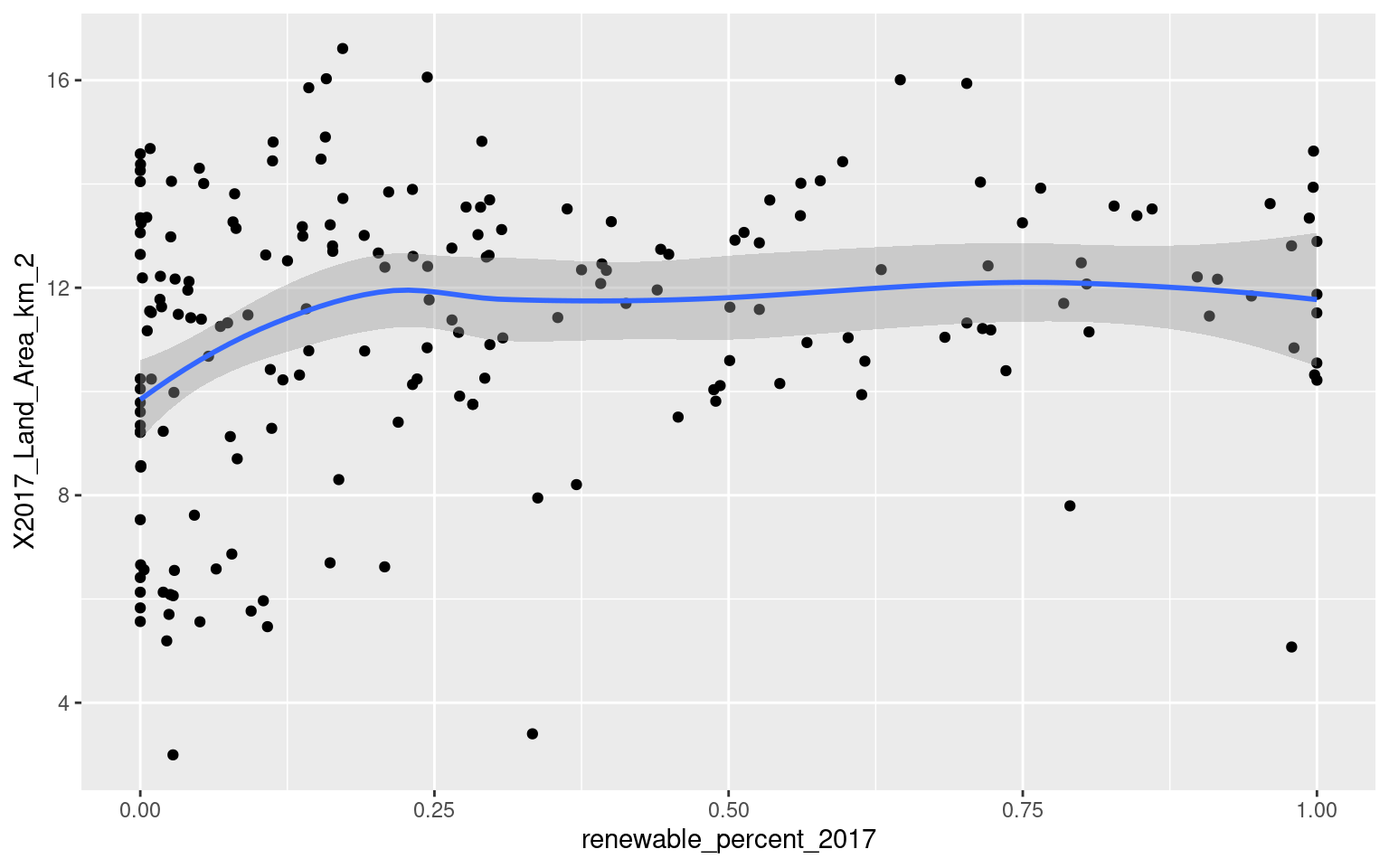
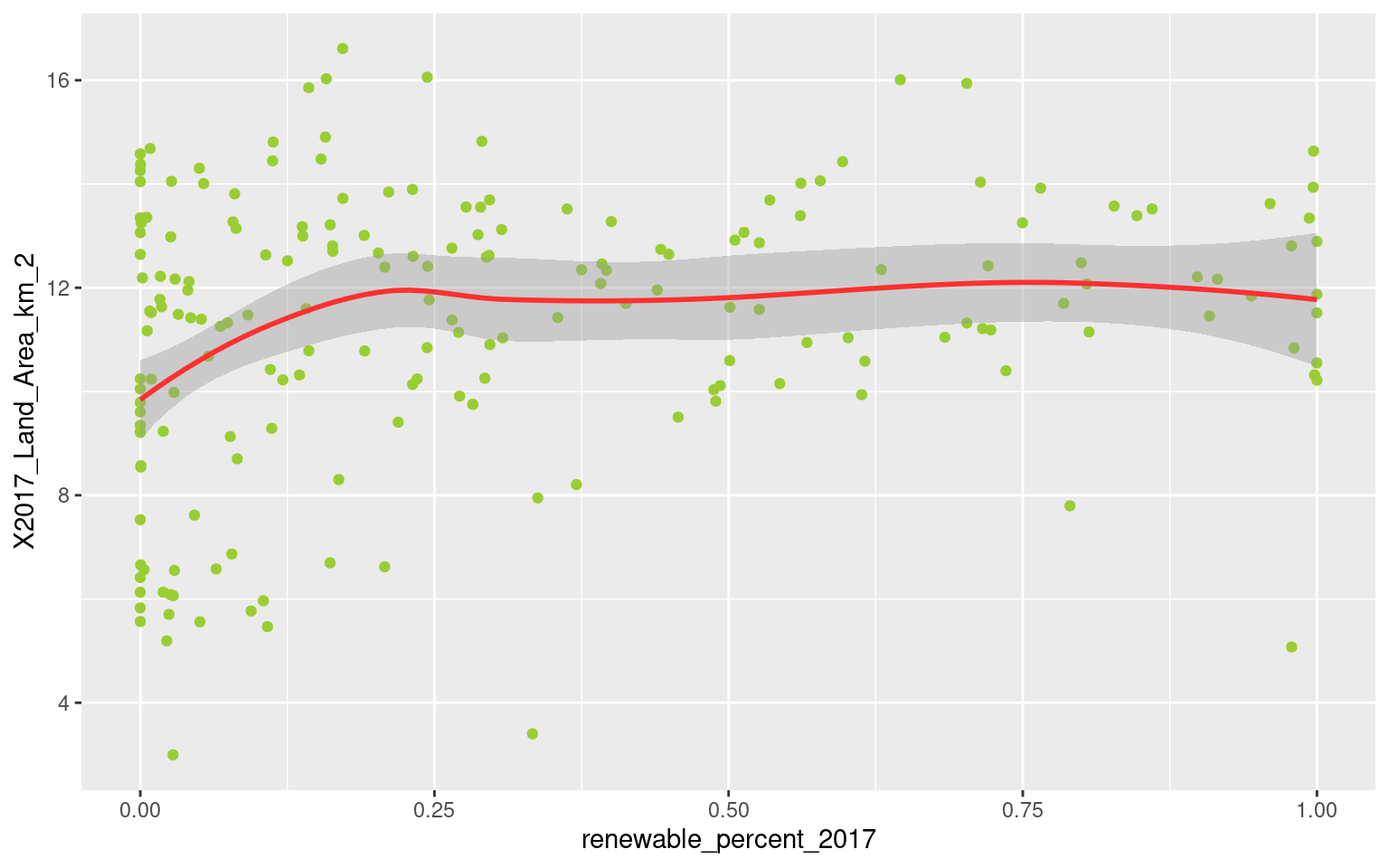
Updated hmtl with Rmd changes

diff --git a/Final_Project_html_Broderick_Weinberg.html b/Final_Project_html_Broderick_Weinberg.html
@@ -190,7 +190,7 @@
 <div id="introduction" class="section level1">
 <h1>Introduction</h1>
 <p>This report has been completed by Hailey Broderick and Callum Weinberg for PSTAT 131/231 in the Winter quarter of 2022 at the University of Santa Barbara. For course credit, the report has been submitted to Gauchospace, along with the structured folder which contains the raw data, additional markdown files (the necessary code is available below unless otherwise stated, but these may show some extra work), a codebook/data dictionary, data crosswalks, intermediate data files, a works cited document (called &quot;works_cited.bib&quot;), and the RMd file that creates this HTML file. If accessing this project via online interface, the materials can be found here: <a href="https://github.com/leoncw/PSTAT231_Final" class="uri">https://github.com/leoncw/PSTAT231_Final</a>. The web hosted version of this HTML document can be found here: <a href="https://leoncw.github.io/PSTAT231_Final/Final_Project_html_Broderick_Weinberg.html" class="uri">https://leoncw.github.io/PSTAT231_Final/Final_Project_html_Broderick_Weinberg.html</a>.</p>
-<p>The primary purpose of this project and the course final assignment was to take a dataset and fit models to predict values of a variable. Specifically, the prediction is perfomed on a known variable (i.e. this is a supervised learning project) and a test data set is used to evaluate the performance of the models. Performing inferential statistics on the models was not the primary purpose of this project, but is discussed at times in the report.</p>
+<p>The primary purpose of this project and the course final assignment was to take a dataset and fit models to predict values of a variable. Specifically, the prediction is performed on a known variable (i.e. this is a supervised learning project) and a test data set is used to evaluate the performance of the models. Performing inferential statistics on the models was not the primary purpose of this project, but is discussed at times in the report.</p>
 <p>The structure of the report is as follows:</p>
 <ul>
 <li>Executive Summary</li>
@@ -264,7 +264,7 @@
 <p>Root Mean Square Error (RMSE), which is a form of quadratic loss, is defined as: <span class="math display">\[RMSE = \sqrt{\frac{\sum_{i = 1}^{n}(\hat{y_i}-y_i)^2}{n}}\]</span></p>
 <p>RMSE is the most commonly used metric in comparing the relative accuracy of predictive models. Mean Absolute Error (MAE), which is a form of absolute loss, is defined as: <span class="math display">\[MAE = \frac{\sum_{i = 1}^{n}|\hat{y_i}-y_i|}{n}\]</span> RMSE and MAE are typically measured on the test data (or validation data), i.e. <span class="math inline">\(y_i \in \{y_{test}\}\)</span>.</p>
 <p>MAE is particularly useful in evaluating the predictions made in this report. Since percentages are bounded by 0 and 1, the MAE is the average percentage miss in either direction for the set of predictions. So if the <span class="math inline">\(MAE = .10\)</span> for a model and a specific test data set, then the predictions on average were .1% away from the true percentages.</p>
-<p>Additionally, MAE implies a threshold for useful models for a response bounded by 0 and 1. If no distributional information is assumed about the response (i.e. set an uninformed prior distribution for the response, which would be the uniform distribution) then the MAE of a completely naive predictor would be roughly .33. In other words, (conditional on nothing being known about renewable energy percentage) if we randomly generated values between 0 and 1 from a uniform distribution, we would expect the MAE for a large sample size to be about .33. An empircal example of this is shown in the code above.</p>
+<p>Additionally, MAE implies a threshold for useful models for a response bounded by 0 and 1. If no distributional information is assumed about the response (i.e. set an uninformed prior distribution for the response, which would be the uniform distribution) then the MAE of a completely naive predictor would be roughly .33. In other words, (conditional on nothing being known about renewable energy percentage) if we randomly generated values between 0 and 1 from a uniform distribution, we would expect the MAE for a large sample size to be about .33. An empirical example of this is shown in the code above.</p>
 <pre class="r"><code># Define two samples from Uniform distribution
 set.seed(42)
 sample_1 = runif(100000,0,1)
@@ -275,7 +275,7 @@ mean(abs(sample_1-sample_2))</code></pre>
 <pre><code>## [1] 0.3352109</code></pre>
 <pre class="r"><code>remove(sample_1,sample_2)</code></pre>
 <p>This sets a limit on what a useful model can be. If a model has an MAE of .4 for example, then we could do better by just guessing. Alternatively, any model with MAE substantially below .33 implies the model is more useful than random guessing.</p>
-<p>Finally, the Bias of the model is considerd. Bias is defined as:</p>
+<p>Finally, the Bias of the model is considered. Bias is defined as:</p>
 <p><span class="math display">\[Bias = \frac{\sum_{i = 1}^{n}\hat{y_i}-y_i}{n}\]</span> Unlike MAE and RMSE, bias is measured using the training data, i.e. <span class="math inline">\(y_i \in \{y_{train}\}\)</span>. Effectively, it measures how close the predicted values are on average to the values used to fit them. By effectively having a large number of predictors (e.g. <span class="math inline">\(n\)</span> fitting polynomial terms in a Generalized Additive Model), it is often possible to get the bias close to 0. This generally indicates the model is overfitted, and will perform poorly on test data. Low bias usually comes at the cost of high variance in the prediction. Bias is measured in this report to provide warning of overfitting. It may not be directly comparable between models, as some models tend to have lower bias but still may perform better.</p>
 </div>
 </div>
@@ -1075,7 +1075,7 @@ full_data_clean$renewable_percent_2017 =
 # There are 19 Such observations
 full_data_clean = full_data_clean %&gt;%
   filter(is.na(renewable_percent_2017) == FALSE)</code></pre>
-<p>Some of the variables and countries are missing a lot of values: more than is reasonable to interpolate. The selected threshold is if the country is missing more than 50 values. This was chosen after reviewing the dataset, and weighs the importance of retaining data (and not biasing the model too much by removing countries) with the practical consideration that fitting a model for an observation that is over mostly interpolated for its predictors is not particularly useful or intersting and makes modeling more dificult.</p>
+<p>Some of the variables and countries are missing a lot of values: more than is reasonable to interpolate. The selected threshold is if the country is missing more than 50 values. This was chosen after reviewing the dataset, and weighs the importance of retaining data (and not biasing the model too much by removing countries) with the practical consideration that fitting a model for an observation that is over mostly interpolated for its predictors is not particularly useful or interesting and makes modeling more difficult.</p>
 <pre class="r"><code>## Get a count of the number of missings, and remove Countries 
 # that have 50 or more missing values. See write up for list of
 # countries
@@ -1236,80 +1236,84 @@ ggplot(distr_df, aes(x = y_i, fill = variable)) +
 <div id="response-variable-distribution" class="section level4">
 <h4>Response Variable Distribution</h4>
 <p>We first plot a histogram of our response variable of interest, renewable energy percentage, in order to examine its distribution.</p>
-<pre class="r"><code># Histogram of renewable electricity production percentage to check distribution
+<pre class="r fold-hide"><code># Histogram of renewable electricity production percentage to check distribution
 ggplot(data=model_data, aes(x=renewable_percent_2017, y=..density..)) +
-       geom_histogram(bins=10, color=&quot;white&quot;)</code></pre>
+       geom_histogram(bins=10, color=&quot;white&quot;) +
+       geom_density(alpha=.5, fill=&quot;lightskyblue2&quot;) </code></pre>
 <p><img src="Final_Project_html_Broderick_Weinberg_files/figure-html/EDA_1-1.png" width="768" /> Based on the histogram of our response variable, renewable_percent_2017, we see that its probability distribution is heavily skewed right. Since the data is skewed, the best measure of the center of renewable_percent_2017 is the median. The right skew of the distribution means that it is more common for countries to have a lower renewable energy percentage (less than 50%). It is interesting to note that this probability seems to steadily decrease, increasing slightly at the tail end for 100% renewable energy production percentage.</p>
 </div>
 <div id="country-population-land-area-and-gdp-scatterplots" class="section level4">
 <h4>Country Population, Land Area, and GDP Scatterplots</h4>
-<p>Logically, the three variables which seem to most obviously differentiate countries are: Country Population (X2017_Population_World_Bank), Country land area measured in <span class="math inline">\(km^2\)</span> (X2017_Land_Area_km_2), and Country GDP measured in US dollars (X2017_GDP_US_Dollars_World_Bank). We would like to see if there is a direct correlation between these continuous variables and our response variable, renewable_percent_2017, by producing scatter plots with geom_point(). Initial plotting was difficult to make out since these variables are very large, thus we take a log transformation of these variables to properly scale them prior to making scatter plots.</p>
-<p>We use the ggplot2 package in order to create plots. Function geom_point() is used to make scatter plots.</p>
-<pre class="r"><code># transform large variables to scale via log transformation
+<p>Logically, the three variables which seem to most obviously differentiate countries are: Country Population (X2017_Population_World_Bank), Country land area measured in <span class="math inline">\(km^2\)</span> (X2017_Land_Area_km_2), and Country GDP measured in US dollars (X2017_GDP_US_Dollars_World_Bank). We would like to see if there is a direct correlation between these continuous variables and our response variable, renewable_percent_2017, by producing scatter plots with geom_point(). Initial plotting was difficult to make out since these variables are very large, thus we take a log transformation of these variables to properly scale them prior to making scatter plots.We use the ggplot2 package in order to create plots. Function geom_point() is used to make scatter plots.</p>
+<pre class="r fold-hide"><code># transform large variables to scale via log transformation
 transform1 = subset_data %&gt;%
   mutate_at(.vars=c(2:4), .funs=log)
 
 # scatter plot response vs Population
 ggplot(data=transform1, mapping = aes(x=renewable_percent_2017, y=X2017_Population_World_Bank)) +
-  geom_point() +
-  geom_smooth()</code></pre>
-<pre><code>## `geom_smooth()` using method = &#39;loess&#39; and formula &#39;y ~ x&#39;</code></pre>
+  geom_point(color=&quot;deeppink1&quot;) +
+  geom_smooth(color=&quot;firebrick1&quot;)</code></pre>
 <p><img src="Final_Project_html_Broderick_Weinberg_files/figure-html/EDA_2-1.png" width="768" /></p>
-<pre class="r"><code># scatter plot response vs Land Area
+<pre class="r fold-hide"><code># scatter plot response vs Land Area
 ggplot(data=transform1, mapping = aes(x=renewable_percent_2017, y=X2017_Land_Area_km_2)) +
-  geom_point() +
-  geom_smooth()</code></pre>
-<pre><code>## `geom_smooth()` using method = &#39;loess&#39; and formula &#39;y ~ x&#39;</code></pre>
+  geom_point(color=&quot;olivedrab3&quot;) +
+  geom_smooth(color=&quot;firebrick1&quot;)</code></pre>
 <p><img src="Final_Project_html_Broderick_Weinberg_files/figure-html/EDA_2-2.png" width="768" /></p>
-<pre class="r"><code># scatter plot response vs GDP
+<pre class="r fold-hide"><code># scatter plot response vs GDP
 ggplot(data=transform1, mapping = aes(x=renewable_percent_2017, y=X2017_GDP_US_Dollars_World_Bank)) +
-  geom_point() +
-  geom_smooth()</code></pre>
-<pre><code>## `geom_smooth()` using method = &#39;loess&#39; and formula &#39;y ~ x&#39;</code></pre>
-<p><img src="Final_Project_html_Broderick_Weinberg_files/figure-html/EDA_2-3.png" width="768" /> Based on our scatter plots of the three variables vs renewable energy percentage, we conclude that there is no significant correlation between renewable energy production percentage and a country's relative Population, GDP, or Land Area. Thus, we reject the notion that renewable energy percentage can be predicted based solely on these predictors.</p>
+  geom_point(color=&quot;goldenrod2&quot;) +
+  geom_smooth(color=&quot;firebrick1&quot;)</code></pre>
+<p><img src="Final_Project_html_Broderick_Weinberg_files/figure-html/EDA_2-3.png" width="768" /> Based on our scatter plots of the three variables vs renewable energy percentage, we conclude that there is no significant correlation between renewable energy production percentage and a country's relative Population, GDP, or Land Area. Thus, we reject the notion that renewable energy percentage can be predicted based solely on these predictors. It is interesting to note that in each plot, there seems to be a slight positive correlation between renewable energy percentage and the three predictors of interest for countries with low renewable energy percentage (0% to 25%).</p>
 </div>
 <div id="emissions-variables-relationships-ch4-co2-ghg-nox" class="section level4">
 <h4>Emissions Variables Relationships (CH4, CO2, GHG, NOx)</h4>
 <p>Next, we would like to see if there exists any relation between emission output variables CH4, CO2, GHG, and NOx, and other predictors. Emissions signal mass production of energy, both harmful and natural. We hypothesize that such emissions could be related to the variables.</p>
 <p>Upon plotting our data, we discovered that the emissions variables CH4, CO2, GHG, and NOx must be scaled in order to properly see relationships, as the values can be quite large. Thus, we decide to transform the emissions variables via a log transformation prior to making our plots.</p>
 <p>Logically, we assume that a higher amount of emissions for each country would correspond with a larger populations. CH4 is methane, which is used to produce light and heat. Thus, a larger should result in greater CH4 outputs from human activity which produces light and heat. We will test this hypothesis by looking at the correlation between CH4 and Population:</p>
-<pre class="r"><code>transform2 = transform1 %&gt;%
+<pre class="r fold-hide"><code>transform2 = transform1 %&gt;%
   mutate_at(.vars=c(5:8), .funs=log)
-
 # boxplot
 ggplot(data=transform2, mapping = aes(x=X2017_Population_World_Bank, y=CH4)) +
-  geom_boxplot(mapping = aes(group = cut_width(X2017_Population_World_Bank, 3)))</code></pre>
-<p><img src="Final_Project_html_Broderick_Weinberg_files/figure-html/EDA_CH4-1.png" width="768" /> There appears to be a clear positive correlation between population and CH4 emission levels. This provides evidence that our hypothesis may be considered, larger populations result in higher levels of CH4 emisions. Note there do exist outliers for populations with smaller populations than output higher than expected levels of CH4.</p>
+  geom_boxplot(mapping = aes(group = cut_width(X2017_Population_World_Bank, 3)),
+               color=&quot;deeppink1&quot;, fill=&quot;pink1&quot;, alpha=0.4)</code></pre>
+<p><img src="Final_Project_html_Broderick_Weinberg_files/figure-html/EDA_CH4-1.png" width="768" /> There appears to be a clear positive correlation between population and CH4 emission levels. This provides evidence that our hypothesis may be considered, larger populations result in higher levels of CH4 emissions. Note there do exist outliers for populations with smaller populations than output higher than expected levels of CH4.</p>
 <p>Next, we wish to check the relation between CO2 emissions and total energy supply (energy_supply_petajoules). CO2 emissions come from many sources, but human generation of energy (i.e. burning fossil fuels) is a huge source of contribution to CO2 emission levels. We suspect there may be a correlation between energy supply (from all sources, not just renewable) and CO2 emissions.</p>
-<pre class="r"><code>transform2 = transform2 %&gt;%
+<pre class="r fold-hide"><code>transform2 = transform2 %&gt;%
   mutate(energy_supply_petajoules = log(energy_supply_petajoules))
 # boxplot
 ggplot(data=transform2, mapping = aes(x=energy_supply_petajoules, y=CO2)) +
-  geom_boxplot(mapping = aes(group = cut_width(x=energy_supply_petajoules, 3)))</code></pre>
+  geom_boxplot(mapping = aes(group = cut_width(x=energy_supply_petajoules, 3)),
+               color=&quot;royalblue2&quot;, fill=&quot;lightskyblue2&quot;, alpha=0.5)</code></pre>
 <p><img src="Final_Project_html_Broderick_Weinberg_files/figure-html/EDA_CO2-1.png" width="768" /> Based on our boxplot of energy_supply_petajoules vs CO2 emissions, it appears that there is a high correlation between these two variables. It appears that in general, larger supplies of energy correspond with rising levels of CO2 emissions. This is why it is important to increase percentages of renewable energy production, to limit the amount of CO2 generated by energy production.</p>
 <p>Green house gases (GHG) are another emission variables, which we believe may be correlated with land area, since GHG are mainly produced by naturally occurring sources, it is logical to assume that larger land area (X2017_Land_Area_km_2) may mean more GHG emissions.</p>
-<pre class="r"><code># boxplot
+<pre class="r fold-hide"><code># boxplot
 ggplot(data=transform2, mapping = aes(x=X2017_Land_Area_km_2, y=GHG)) +
-  geom_boxplot(mapping = aes(group = cut_width(X2017_Land_Area_km_2, 1)))</code></pre>
+  geom_boxplot(mapping = aes(group = cut_width(X2017_Land_Area_km_2, 1)),
+               color=&quot;green4&quot;, fill=&quot;palegreen&quot;, alpha=0.3)</code></pre>
 <p><img src="Final_Project_html_Broderick_Weinberg_files/figure-html/EDA_GHG-1.png" width="768" /> Based on our plots, there seems to be some positive correlation between GHG and land area, but not as extreme a correlation as the previous emission relationships which we observed.</p>
 <p>Nitrogen Oxide (NOx) is our final emission variable to examine. Nitrogen Oxide are harmful gases which are produced via burning fuel at high temperatures. Human activities such as construction and driving contribute to NOx emissions. Thus, we will venture to explore the relationship between GDP (X2017_GDP_US_Dollars_World_Bank) and NOx. We suspect there may exist a relationship since GDP corresponds to the value of goods produced/consumed in a country. A higher GDP should equate to higher production and consumption levels of goods, which we believe would increase NOx levels.</p>
-<pre class="r"><code># boxplot
+<pre class="r fold-hide"><code># boxplot
 ggplot(data=transform2, mapping = aes(x=X2017_GDP_US_Dollars_World_Bank, y=NOx)) +
-  geom_boxplot(mapping = aes(group = cut_width(X2017_GDP_US_Dollars_World_Bank, 1))) </code></pre>
-<p><img src="Final_Project_html_Broderick_Weinberg_files/figure-html/EDA_NOx-1.png" width="768" /> Looking at the resulting boxplot, there appears to be some positive correlation between GDP and NOx emissions, which begins to plateu as GDP increases. But we must note that there exist a number of outliers which may influence these results.</p>
+  geom_boxplot(mapping = aes(group = cut_width(X2017_GDP_US_Dollars_World_Bank, 1)),
+               color=&quot;goldenrod3&quot;, fill=&quot;lightgoldenrod3&quot;, alpha=0.4) </code></pre>
+<p><img src="Final_Project_html_Broderick_Weinberg_files/figure-html/EDA_NOx-1.png" width="768" /> Looking at the resulting boxplot, there appears to be some positive correlation between GDP and NOx emissions, which begins to plateau as GDP increases. But we must note that there exist a number of outliers which may influence these results.</p>
 </div>
 <div id="suspected-confounding-land-variables" class="section level4">
 <h4>Suspected Confounding Land Variables</h4>
 <p>We suspect that Land Area measured in <span class="math inline">\(km^{2}\)</span> (X2017_Land_Area_km_2) and Forest area (forest_area_2015), may be confounding variables since forest area would be a subset of total land area, thus we make a correlation graph between the two continuous variables. In order to properly view our data in the correlation graph, we must preform log transformation on both variables in order to properly scale the data.</p>
-<pre class="r"><code>ggplot(data=model_data) +
-  geom_point(mapping = aes(x= log(X2017_Land_Area_km_2), y = log(forest_area_2015)), color=&quot;green4&quot;)</code></pre>
+<pre class="r fold-hide"><code>ggplot(data=model_data, mapping = aes(x= log(X2017_Land_Area_km_2), y = log(forest_area_2015))) +
+  geom_point(color=&quot;olivedrab3&quot;) +
+  geom_smooth(color=&quot;firebrick1&quot;)</code></pre>
+<pre><code>## `geom_smooth()` using method = &#39;loess&#39; and formula &#39;y ~ x&#39;</code></pre>
+<pre><code>## Warning: Removed 2 rows containing non-finite values (stat_smooth).</code></pre>
 <p><img src="Final_Project_html_Broderick_Weinberg_files/figure-html/counfounding_vars_1-1.png" width="768" /> Based on the correlation graph, X2017_Land_Area_km_2 and forest_area_2015 exhibit linear behavior. Thus, there is a high positive correlation between these variables.</p>
 </div>
 <div id="paris-climate-agreement" class="section level4">
 <h4>Paris Climate Agreement</h4>
 <p>Finally we wish to acknowledge variables which represent the year that a Country officially formalized their participation in a selection of environmental international treaties and conventions. These predictor variables may be of importance because they indicate the Country's desire to pursue measures to mitigate climate change. We hypothesize that an earlier year of formalizing participation in such conventions and treaties would result in a decrease in harmful environmental activities. We assume that countries who formalize their participation observe the importance of transitioning off of fossil fuels decreasing harmful emissions, and begin their transition sooner than other countries. We check if there exists a relationship between one of the most well-known Climate agreements, The Paris Climate Accord (Paris_Agreement), and a harmful environmental activity mining (mining_value_2017):</p>
-<pre class="r"><code>ggplot(data=transform2, mapping = aes(x=Paris_Agreement, y=mining_value_2017)) +
-  geom_boxplot(mapping = aes(group = cut_width(Paris_Agreement, 2)))</code></pre>
+<pre class="r fold-hide"><code>ggplot(data=transform2, mapping = aes(x=Paris_Agreement, y=mining_value_2017)) +
+  geom_boxplot(mapping = aes(group = cut_width(Paris_Agreement, 2)),
+               color=&quot;mediumorchid4&quot;, fill=&quot;plum3&quot;, alpha=0.4)</code></pre>
 <p><img src="Final_Project_html_Broderick_Weinberg_files/figure-html/conventions-1.png" width="768" /> Based on our boxplot, there appears to be a relationship between Paris_Agreement and mining_value_2017. It appears that countries who joined the Paris Agreement earlier tend to have a lower mining value on average. This is consistent with the idea that countries' participation in treaties and conventions may be an indication of their willingness to rely on renewable energy sources.</p>
 </div>
 </div>
@@ -1413,9 +1417,8 @@ ridge.mod = glmnet(x.train_r, y.train, alpha=0, lambda = lambda.list.ridge)
 plot(ridge.mod, xvar=&quot;lambda&quot;, label=TRUE)</code></pre>
 <p><img src="Final_Project_html_Broderick_Weinberg_files/figure-html/initial_ridge_model-1.png" width="768" /> We see that depending on the choice of penalty parameter lambda, coefficients of the ridge regression model are regularized towards zero. Our goal in creating the optimal ridge regression model is to find the optimal value of lambda which produces coefficients which minimize MSE.</p>
 <p>We use cross validation to fold the training set into 10 folds (using k-fold CV function as defined in Homework 2). For each fold of the training data, we preform additional 5-fold CV via the cv.glmnet() to find the optimal value of lambda and resulting MSE for the corresponding validation sets.</p>
-<pre class="r"><code># Create Model Matrix of the Training Data
+<pre class="r fold-hide"><code># Create Model Matrix of the Training Data
 data.train = model.matrix(y.train ~ . , x.train_r)
-
 
 # k-fold CV function
 do.chunk.ridge &lt;- function(chunkid, folddef, dat, ...){
@@ -1458,7 +1461,7 @@ for (i in 1:10){
   error.folds.r = rbind(error.folds.r, CV.r)
 }
 
-error.folds.r</code></pre>
+print(error.folds.r)</code></pre>
 <pre><code>##    fold bestlam.r    val.MSE  val.RMSE   val.MAE
 ## 1     1 0.6398175 0.08954341 0.2992380 0.2451241
 ## 2     2 0.3212959 0.08472858 0.2910817 0.2375264
@@ -1470,14 +1473,14 @@ error.folds.r</code></pre>
 ## 8     8 0.7251541 0.09020865 0.3003475 0.2470640
 ## 9     9 1.5830020 0.09367949 0.3060711 0.2562125
 ## 10   10 0.8119056 0.09020841 0.3003471 0.2472365</code></pre>
-<pre class="r"><code>optimal_lam_r1 = error.folds.r[2,]$bestlam.r</code></pre>
+<pre class="r fold-hide"><code>optimal_lam_r1 = error.folds.r[2,]$bestlam.r</code></pre>
 <p>Based on the 10 folds of our training data, we see training fold 2 resulted in lowest validation MSE, indicating it's corresponding lambda = 0.3212959 may be our optimal penalty parameter.</p>
 <p>We compare this lambda value selected from the folded training set, to the optimal lambda chosen by preforming 10-fold cross-validation on the entire training set, simply using the function cv.glment(). The plot of lambda values and corresponding MSEs is produced.</p>
 <pre class="r"><code>set.seed(42)
 # 5-fold CV
 cv.out.ridge = cv.glmnet(as.matrix(x.train_r), y.train, alpha=0, folds=10)
 plot(cv.out.ridge)
-abline(v = log(cv.out.ridge$lambda.min), col=&quot;green4&quot;, lwd=3, lty=2)</code></pre>
+abline(v = log(cv.out.ridge$lambda.min), col=&quot;springgreen4&quot;, lwd=3, lty=2)</code></pre>
 <p><img src="Final_Project_html_Broderick_Weinberg_files/figure-html/optimal_lambda_ridge-1.png" width="768" /></p>
 <pre class="r"><code># optimal lambda
 optimal_lam_r2 = cv.out.ridge$lambda.min</code></pre>
@@ -1487,14 +1490,11 @@ optimal_lam_r2 = cv.out.ridge$lambda.min</code></pre>
 ridge.mod1 = glmnet(x.train_r, y.train, alpha=0, lambda = optimal_lam_r1)
 ridge.train.pred1 = predict(ridge.mod1, s=optimal_lam_r1, newx=as.matrix(x.train_r))
 ridge.train.MSE1 = mean((ridge.train.pred1- y.train)^2)
-ridge.train.MSE1</code></pre>
-<pre><code>## [1] 0.08492602</code></pre>
-<pre class="r"><code># fir ridge model 2
+
+# fir ridge model 2
 ridge.mod2 = glmnet(x.train_r, y.train, alpha=0, lambda = optimal_lam_r2)
 ridge.train.pred2 = predict(ridge.mod2, s=optimal_lam_r2, newx=as.matrix(x.train_r))
-ridge.train.MSE2 = mean((ridge.train.pred2- y.train)^2)
-ridge.train.MSE2</code></pre>
-<pre><code>## [1] 0.08581208</code></pre>
+ridge.train.MSE2 = mean((ridge.train.pred2- y.train)^2)</code></pre>
 <p>Based on the predictions of the two ridge models, we see that ridge.mod1 with lambda=0.3212959 results in a slightly lower training MSE 0.084926, compared to training MSE 0.0858121 from ridge.mod2 with lambda=0.3831554. This means that ridge.mod1 is slightly better fit to the training data.</p>
 <p>Thus, we choose tuning parameter 0.3212959 to be the optimal lambda value to build our final ridge regression model.</p>
 <p>The coefficients for our optimally tuned ridge regression model are the following:</p>
@@ -1536,14 +1536,12 @@ ridge.coeff</code></pre>
 ## World__Heritage_Convention                -2.391218e-03</code></pre>
 <p>Our final ridge regression model has 30 coefficient estimates, some of these coefficient estimates appear to be very close to zero, but none are exactly zero.</p>
 <p>We now compute the training MSE and test MSE for our optimal ridge regression model:</p>
-<pre class="r"><code>ridge.train.pred = predict(ridge.mod1, s=optimal_lam_r1, newx=as.matrix(x.train_r))
+<pre class="r"><code># final ridge training MSE
+ridge.train.pred = predict(ridge.mod1, s=optimal_lam_r1, newx=as.matrix(x.train_r))
 ridge.train.MSE = mean((ridge.train.pred - y.train)^2)
-ridge.train.MSE</code></pre>
-<pre><code>## [1] 0.08492602</code></pre>
-<pre class="r"><code>ridge.test.pred = predict(ridge.mod1, s=optimal_lam_r1, newx=as.matrix(x.train_r))
-ridge.test.MSE = mean((ridge.test.pred - y.test)^2)
-ridge.test.MSE</code></pre>
-<pre><code>## [1] 0.09341971</code></pre>
+# final ridge training MSE
+ridge.test.pred = predict(ridge.mod1, s=optimal_lam_r1, newx=as.matrix(x.train_r))
+ridge.test.MSE = mean((ridge.test.pred - y.test)^2)</code></pre>
 <p>Our final ridge regression model based on the coefficient estimates produced by our optimally tuned lambda results in training MSE 0.084926, and test MSE 0.0934197. The test MSE is lower than the training MSE, although both are relatively close to zero. This is promising and signals that our model preforms well on the test set.</p>
 </div>
 <div id="lasso-regression-model" class="section level4">
@@ -1559,7 +1557,7 @@ lasso.mod &lt;- glmnet(x.train_r, y.train, alpha=1, lambda=lambda.list.lasso)
 plot(lasso.mod, xvar=&quot;lambda&quot;, label=TRUE)</code></pre>
 <p><img src="Final_Project_html_Broderick_Weinberg_files/figure-html/initial_lasso_model-1.png" width="768" /> We see that as penalty parameter lambda increases, normalized coefficients of the lasso regression model are regularized down towards zero, eventually all becoming zero. Our goal in creating the optimal lasso regression model is to find the optimal value of lambda which produces coefficients that minimize prediction error.</p>
 <p>Again, we use cross validation to fold the training set into 10 folds as we did for ridge regression. For each fold of the training data, we preform additional 5-fold CV via the cv.glmnet() to find the optimal value of lambda and resulting MSE for the corresponding validation sets.</p>
-<pre class="r"><code># design matrix of training data with response variable renewable_percent_2017
+<pre class="r fold-hide"><code># design matrix of training data with response variable renewable_percent_2017
 data.train &lt;- model.matrix(y.train ~ . , x.train_r)
 
 # k-fold CV function
@@ -1615,31 +1613,27 @@ error.folds.l</code></pre>
 ## 8     8 0.04347185 0.09691263 0.3113079 0.2590350
 ## 9     9 0.04508447 0.09613667 0.3100591 0.2609295
 ## 10   10 0.02785217 0.08931486 0.2988559 0.2464851</code></pre>
-<pre class="r"><code>optimal_lam_l1 = error.folds.l[4,]$bestlam.l</code></pre>
+<pre class="r fold-hide"><code>optimal_lam_l1 = error.folds.l[4,]$bestlam.l</code></pre>
 <p>Based on the 10 folds of our training data, we see training fold 4 resulted in lowest validation MSE, indicating it's corresponding lambda = 0.018467 may be our optimal penalty parameter.</p>
 <p>We compare this lambda value selected from the folded training sets, to the optimal lambda chosen by preforming 10-fold cross-validation on the entire training set, simply using the function cv.glment(). The plot of lambda values and corresponding MSEs is produced.</p>
 <pre class="r"><code>set.seed(42)
 # 10-fold CV on training set
 cv.out.lasso = cv.glmnet(as.matrix(x.train_r), y.train, alpha=1, folds=10)
 plot(cv.out.lasso)
-abline(v = log(cv.out.lasso$lambda.min), col=&quot;green4&quot;, lwd=3, lty=2)</code></pre>
+abline(v = log(cv.out.lasso$lambda.min), col=&quot;springgreen4&quot;, lwd=3, lty=2)</code></pre>
 <p><img src="Final_Project_html_Broderick_Weinberg_files/figure-html/optimal_lambda_lasso-1.png" width="768" /></p>
 <pre class="r"><code># optimal lambda
 optimal_lam_l2 = cv.out.lasso$lambda.min</code></pre>
 <p>The optimal lambda parameter selected for our lasso model by preforming 10-fold CV on our entire training set is 0.0190697.</p>
 <p>In order to choose which tuning parameter lambda to use for our optimal lasso regression model, we fit two lasso models to our original training set for both values of lambda. - Fit one is lasso.mod1 with lambda =0.018467. - Fit two is lasso.mod2 with lambda = 0.0190697.</p>
-<pre class="r"><code># fit ridge model 1
+<pre class="r"><code># fit lasso model 1
 lasso.mod1 = glmnet(x.train_r, y.train, alpha=1, lambda = optimal_lam_l1)
 lasso.train.pred1 = predict(lasso.mod1, s=optimal_lam_l1, newx=as.matrix(x.train_r))
 lasso.train.MSE1 = mean((lasso.train.pred1- y.train)^2)
-lasso.train.MSE1</code></pre>
-<pre><code>## [1] 0.08515766</code></pre>
-<pre class="r"><code># fir ridge model 2
+# fir lasso model 2
 lasso.mod2 = glmnet(x.train_r, y.train, alpha=1, lambda = optimal_lam_l2)
 lasso.train.pred2 = predict(lasso.mod2, s=optimal_lam_l2, newx=as.matrix(x.train_r))
-lasso.train.MSE2 = mean((lasso.train.pred2- y.train)^2)
-lasso.train.MSE2</code></pre>
-<pre><code>## [1] 0.08538607</code></pre>
+lasso.train.MSE2 = mean((lasso.train.pred2- y.train)^2)</code></pre>
 <p>Based on the predictions of the two lasso models, we see that lasso.mod1 with lambda=0.018467 results in a slightly lower training MSE 0.0851577, compared to training MSE 0.0853861 from lasso.mod2 with lambda=0.0190697. This means that lasso.mod1 is slightly better fit to the training data.</p>
 <p>Thus, we choose tuning parameter 0.018467 to be the optimal lambda value to build our final lasso regression model.</p>
 <p>The coefficients for our optimally tuned lasso regression model are the following:</p>
@@ -1684,13 +1678,9 @@ lasso.coeff</code></pre>
 <pre class="r"><code># training MSE
 lasso.train.pred = predict(lasso.mod1, s=optimal_lam_l1, newx=as.matrix(x.train_r))
 lasso.train.MSE = mean((lasso.train.pred - y.train)^2)
-lasso.train.MSE</code></pre>
-<pre><code>## [1] 0.08515766</code></pre>
-<pre class="r"><code># test MSE
+# test MSE
 lasso.test.pred = predict(lasso.mod1, s=optimal_lam_l1, newx=as.matrix(x.test_r))
-lasso.test.MSE = mean((lasso.test.pred - y.test)^2)
-lasso.test.MSE</code></pre>
-<pre><code>## [1] 0.07579532</code></pre>
+lasso.test.MSE = mean((lasso.test.pred - y.test)^2)</code></pre>
 <p>Our final lasso model results in training MSE 0.0851577, and test MSE 0.0757953. The training MSE is higher than the test MSE for our lasso model, meaning that our model preforms better on the test data than the data which it was fit to, which is positive because it signals that our lasso model is not overfit to the training data.</p>
 </div>
 <div id="optimal-regression-model" class="section level4">
@@ -1700,36 +1690,24 @@ lasso.test.MSE</code></pre>
 <pre class="r"><code># mse for ridge model on test data
 ridge.test.pred = predict(ridge.mod1, s=optimal_lam_r1, newx=as.matrix(x.test_r))
 MSE.r = mean((ridge.test.pred - y.test)^2)
-MSE.r</code></pre>
-<pre><code>## [1] 0.07304419</code></pre>
-<pre class="r"><code># mse for lasso model on test data
+# mse for lasso model on test data
 lasso.test.pred = predict(lasso.mod1, s=optimal_lam_l1, newx=as.matrix(x.test_r))
-MSE.l = mean((lasso.test.pred - y.test)^2)
-MSE.l</code></pre>
-<pre><code>## [1] 0.07579532</code></pre>
+MSE.l = mean((lasso.test.pred - y.test)^2)</code></pre>
 <p>Compute test root mean square errors:</p>
 <pre class="r"><code># root mse for ridge model on test data
 RMSE.r = sqrt(ridge.test.MSE)
-RMSE.r</code></pre>
-<pre><code>## [1] 0.3056464</code></pre>
-<pre class="r"><code># root mse for lasso model on test data
-RMSE.l = sqrt(lasso.test.MSE)
-RMSE.l</code></pre>
-<pre><code>## [1] 0.2753095</code></pre>
+# root mse for lasso model on test data
+RMSE.l = sqrt(lasso.test.MSE)</code></pre>
 <p>Compute test root mean absolute errors:</p>
 <pre class="r"><code># mean absolute error for ridge model on test data
 MAE.r = mean(abs(y.test-ridge.test.pred))
-MAE.r</code></pre>
-<pre><code>## [1] 0.2222525</code></pre>
-<pre class="r"><code># mean absolute error for lasso model on test data
-MAE.l = mean(abs(y.test-lasso.test.pred))
-MAE.l</code></pre>
-<pre><code>## [1] 0.2216202</code></pre>
+# mean absolute error for lasso model on test data
+MAE.l = mean(abs(y.test-lasso.test.pred))</code></pre>
 <p>Based on our evaluations of different metrics of accuracy, we see that both our final ridge and lasso regression models preform very closely on the test data. Our ridge model preforms slightly better on the test set measured on all metrics of accuracy.</p>
 <p>-Our final ridge model has test errors: MSE 0.0730442, RMSE 0.3056464, and MAE 0.2222525 -Our final lasso model has test errors: MSE 0.0757953, RMSE 0.2753095, and MAE 0.2216202</p>
 <p>Since our lasso model uses significantly less predictors in its model (11 compared to 30), and has test MAE almost identical compared to the ridge model, it would be advantageous to use the lasso model in this setting, since we gain interpretability with much loss of accuracy. Thus, our optimal linear regression model chosen via regularization methods is the lasso model.</p>
 <p>Finally, we plot the predictions for our lasso model on the test set versus the actual values in order to visualize how well our model preformed. The code used to produce this plot was created by Callum Weinberg, and slightly altered for our lasso model.</p>
-<pre class="r"><code>lasso.test.pred = predict(lasso.mod1, s=optimal_lam_l1, newx=as.matrix(x.test_r))
+<pre class="r fold-hide"><code>lasso.test.pred = predict(lasso.mod1, s=optimal_lam_l1, newx=as.matrix(x.test_r))
 # Create Data Frame with Countries, Predicted Values
 # And Actual Values
 lasso_predict_graph_data = data.frame(observation = c(1:39),
@@ -1907,7 +1885,7 @@ summary(beta_model)</code></pre>
 ## Sampler summary:
 ## -
 ## DIC = -319.5839 logLik = 179.1992 pd = 38.8144
-## runtime = 29.653
+## runtime = 43.404
 ## ---
 ## Optimizer summary:
 ## -
@@ -2315,30 +2293,23 @@ with(RF.cv, plot(n.var, error.cv))</code></pre>
 <pre class="r"><code># training MSE
 RF.train.pred = predict(RF.regression, newdata=x.train_r)
 RF.train.MSE = mean((RF.train.pred - y.train)^2)
-
 # test MSE
 RF.test.pred = predict(RF.regression, newdata=x.test_r)
 RF.test.MSE = mean((RF.test.pred - y.test)^2)</code></pre>
 <p>Thus, our random forest regression model is has training MSE 0.0150508, and test MSE 0.0667791. Thus, our random forest regression model is better fit to the training data than the test data. Both training and test MSE are relatively close to zero, which means that the model has some prediction accuracy on the test set.</p>
 <p>We now calculate different metrics of accuracy in order to compare our random forest regression model's performance with other models considered throughout the report.</p>
 <p>Compute and compare test MSE, RMSE, and MAE:</p>
-<pre class="r"><code># test mse for RF  model on test data
+<pre class="r"><code># test mse for RF model on test data
 RF.test.pred = predict(RF.regression, newdata=x.test_r)
 RF.test.MSE = mean((RF.test.pred - y.test)^2)
-RF.test.MSE</code></pre>
-<pre><code>## [1] 0.06677915</code></pre>
-<pre class="r"><code># test root mse 
+# test root mse 
 RF.test.RMSE = sqrt(RF.test.MSE)
-RF.test.RMSE</code></pre>
-<pre><code>## [1] 0.2584166</code></pre>
-<pre class="r"><code># mean absolute error for RF on test data
-RF.MAE = mean(abs(y.test-RF.test.pred))
-RF.MAE</code></pre>
-<pre><code>## [1] 0.2038318</code></pre>
+# mean absolute error for RF on test data
+RF.MAE = mean(abs(y.test-RF.test.pred))</code></pre>
 <p>The resulting test errors made by our RF model are: MSE = 0.0667791 , RMSE = 0.2584166 , and MAE = 0.2038318.</p>
 <p>The mean absolute error of our random forest regression model is 0.2038318 which is an okay mean absolute error. This type of model does not seem to be ideal for our prediction needs, but it may be able to predict with some accuracy.</p>
 <p>Finally, we plot the predictions for our random forest model on the test set versus the actual values in order to visualize how well our model preformed. The code used to produce this plot was created by Callum Weinberg, and slightly altered for our random forest model.</p>
-<pre class="r"><code>set.seed(42)
+<pre class="r fold-hide"><code>set.seed(42)
 RF.test.pred = as.matrix(predict(RF.regression, newdata=x.test_r))
 RF.test.pred</code></pre>
 <pre><code>##           [,1]
@@ -2381,7 +2352,7 @@ RF.test.pred</code></pre>
 ## 176 0.14038910
 ## 189 0.23975683
 ## 192 0.19450019</code></pre>
-<pre class="r"><code># Create Data Frame with Countries, Predicted Values
+<pre class="r fold-hide"><code># Create Data Frame with Countries, Predicted Values
 # And Actual Values
 RF.test.pred</code></pre>
 <pre><code>##           [,1]
@@ -2424,7 +2395,7 @@ RF.test.pred</code></pre>
 ## 176 0.14038910
 ## 189 0.23975683
 ## 192 0.19450019</code></pre>
-<pre class="r"><code>RF_predict_graph_data = data.frame(observation = c(1:39),
+<pre class="r fold-hide"><code>RF_predict_graph_data = data.frame(observation = c(1:39),
                                       V1 = RF.test.pred,
                                       actual = y.test,
                                       Country = x.test$Country_Final)
